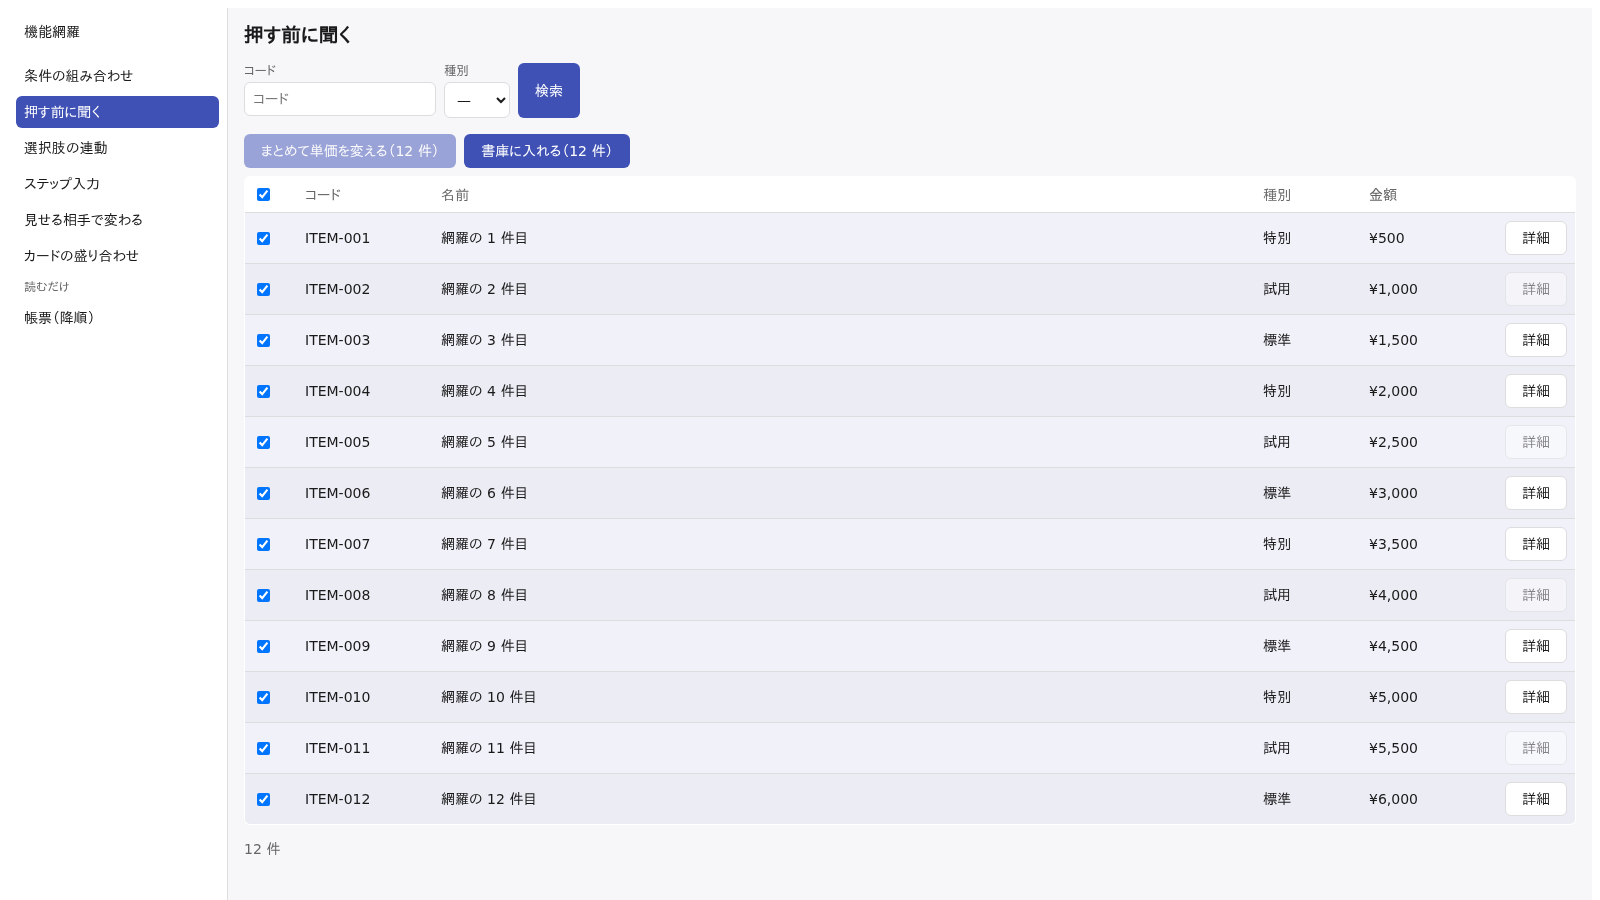
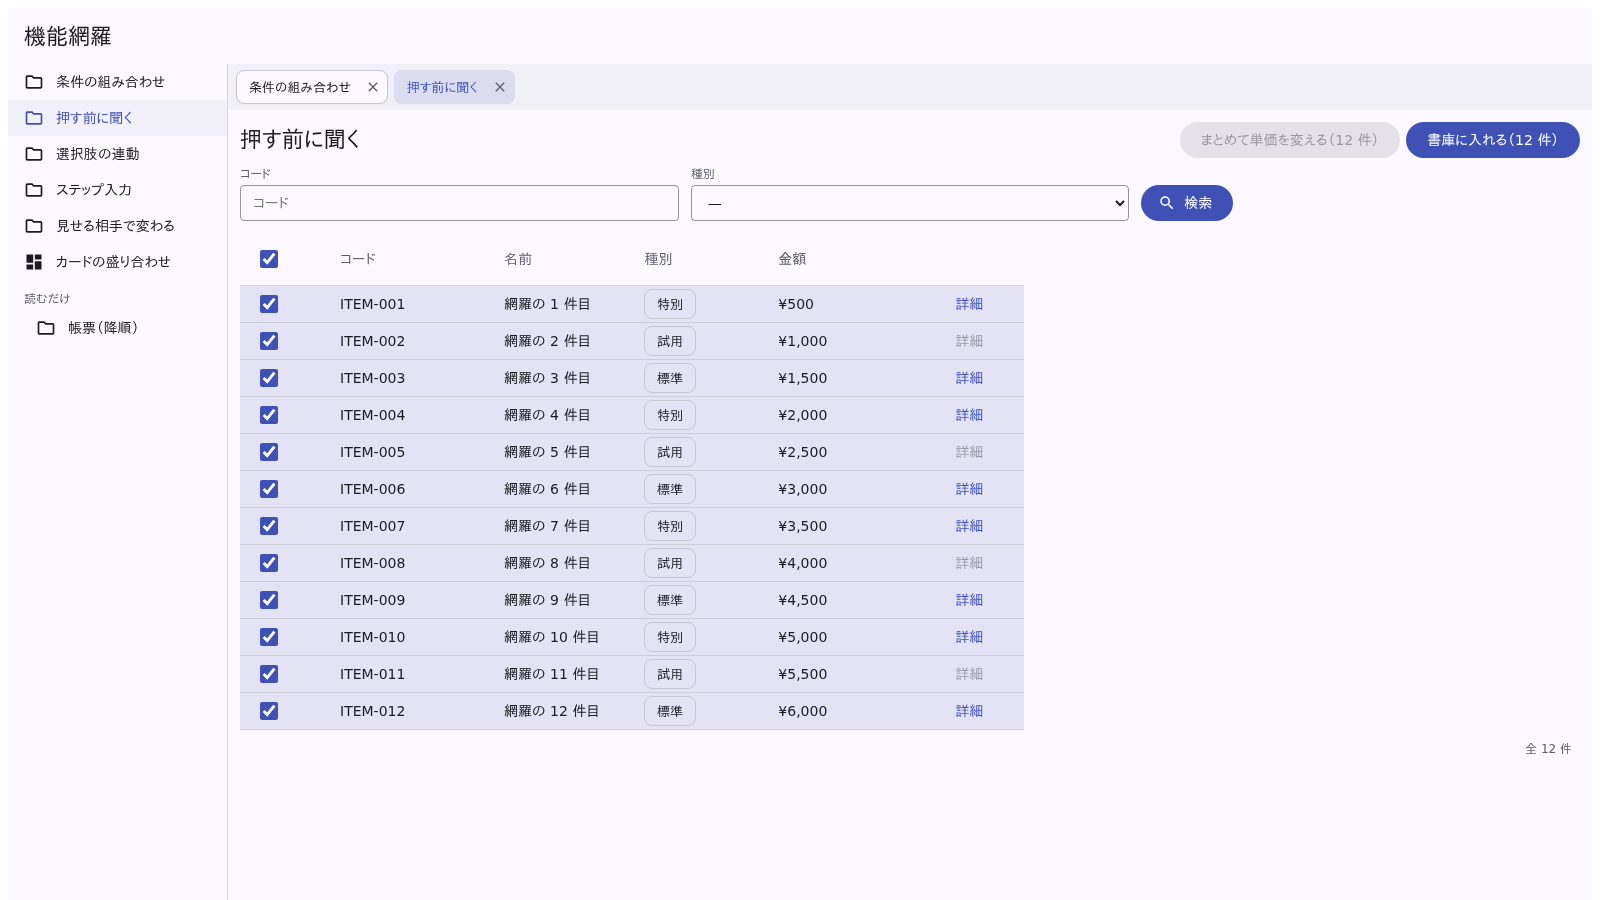
機能網羅を 0.9.20 に上げる（ブラウザ版の見た目が Flutter 版にそろった）

diff --git a/apps/kitchen-sink-prj/docs/4-テスト/出力-画面テスト結果-React.md b/apps/kitchen-sink-prj/docs/4-テスト/出力-画面テスト結果-React.md
@@ -13,7 +13,7 @@
 > **スクショは証拠であって、判定ではありません。** 値の合否は `hatake run`、
 > サーバの合否は API テストが持っています。
 
-- 実行日時: 2026-09-29T07:18:24.980Z
+- 実行日時: 2026-09-30T00:30:22.912Z
 - 対象: `http://web-react:80`
 - 画面の大きさ: 1600 x 900
 - 前提: `docker compose up` で初期データの状態
@@ -49,7 +49,7 @@
 
 - **役割**: tester
 - **確かめたいこと**: `actions:` が3スコープとも描かれているか（0.9.19 で入った所）
-- **目で見て確かめること**: 一括が2つ出ていて、**1行も選んでいないので押せない**。行の「詳細」は試用の行だけ灰色。左端に選ぶ列が在る
+- **目で見て確かめること**: 題の右に一括が2つ出ていて、**1行も選んでいないので押せない**（札に「（行を選んでください）」）。行の「詳細」は試用の行だけ灰色。左端に選ぶ列が在る。種別は札で出る
 
 ![R-02](画面-R/R-02-押す前に聞く.png)
 
@@ -113,7 +113,7 @@
 
 - **役割**: admin
 - **確かめたいこと**: 列・ボタン・項目の roles
-- **目で見て確かめること**: 「原価」の列が出ている。「CSV 出力」が出ている
+- **目で見て確かめること**: 「原価」の列が出ている。「CSV 出力」が出ている。行の「編集」「削除」は絵のボタン（`rowActions` に書いたから出ている）
 
 ![R-10](画面-R/R-10-見せる相手で変わる-admin.png)
 
@@ -129,6 +129,6 @@
 
 - **役割**: admin
 - **確かめたいこと**: dashboard のカード3種と span、カードごとの roles・固定条件
-- **目で見て確かめること**: 件数・原価の合計・G1 だけ・平均原価の4枚と、図と表。admin なので「平均原価」が出ている
+- **目で見て確かめること**: 1段目に件数・原価の合計・G1 だけ・平均原価の4枚（`layout.columns: 4`）、2段目に棒グラフと表（`span: 2`）。金額は ¥ 付き。admin なので「平均原価」が出ている
 
 ![R-12](画面-R/R-12-カードの盛り合わせ.png)

diff --git a/apps/kitchen-sink-prj/docs/4-テスト/出力-画面テスト結果-Vue.md b/apps/kitchen-sink-prj/docs/4-テスト/出力-画面テスト結果-Vue.md
@@ -13,7 +13,7 @@
 > **スクショは証拠であって、判定ではありません。** 値の合否は `hatake run`、
 > サーバの合否は API テストが持っています。
 
-- 実行日時: 2026-09-29T07:17:28.324Z
+- 実行日時: 2026-09-30T00:29:26.204Z
 - 対象: `http://web-vue:80`
 - 画面の大きさ: 1600 x 900
 - 前提: `docker compose up` で初期データの状態
@@ -49,7 +49,7 @@
 
 - **役割**: tester
 - **確かめたいこと**: `actions:` が3スコープとも描かれているか（0.9.19 で入った所）
-- **目で見て確かめること**: 一括が2つ出ていて、**1行も選んでいないので押せない**。行の「詳細」は試用の行だけ灰色。左端に選ぶ列が在る
+- **目で見て確かめること**: 題の右に一括が2つ出ていて、**1行も選んでいないので押せない**（札に「（行を選んでください）」）。行の「詳細」は試用の行だけ灰色。左端に選ぶ列が在る。種別は札で出る
 
 ![V-02](画面-V/V-02-押す前に聞く.png)
 
@@ -113,7 +113,7 @@
 
 - **役割**: admin
 - **確かめたいこと**: 列・ボタン・項目の roles
-- **目で見て確かめること**: 「原価」の列が出ている。「CSV 出力」が出ている
+- **目で見て確かめること**: 「原価」の列が出ている。「CSV 出力」が出ている。行の「編集」「削除」は絵のボタン（`rowActions` に書いたから出ている）
 
 ![V-10](画面-V/V-10-見せる相手で変わる-admin.png)
 
@@ -129,6 +129,6 @@
 
 - **役割**: admin
 - **確かめたいこと**: dashboard のカード3種と span、カードごとの roles・固定条件
-- **目で見て確かめること**: 件数・原価の合計・G1 だけ・平均原価の4枚と、図と表。admin なので「平均原価」が出ている
+- **目で見て確かめること**: 1段目に件数・原価の合計・G1 だけ・平均原価の4枚（`layout.columns: 4`）、2段目に棒グラフと表（`span: 2`）。金額は ¥ 付き。admin なので「平均原価」が出ている
 
 ![V-12](画面-V/V-12-カードの盛り合わせ.png)

diff --git a/apps/kitchen-sink-prj/docs/4-テスト/出力-Renderer比較.md b/apps/kitchen-sink-prj/docs/4-テスト/出力-Renderer比較.md
@@ -8,7 +8,7 @@
 > 「違う」になるし、中身が違っても見た目が似ていれば気づけない）。この3つは
 > **契約**なので、揃っていなければ載せ替えた案件が黙って壊れます。
 
-- 実行日時: 2026-09-29T07:19:15.967Z
+- 実行日時: 2026-09-30T00:31:14.068Z
 - Vue: `http://web-vue:80`
 - React: `http://web-react:80`
 
@@ -16,15 +16,15 @@
 
 | 画面（役割） | 印 | クラス名 | 字数 | 突き合わせ |
 |---|---|---|---|---|
-| combo_form（tester） | 20 | 19 | 58 | 揃っている |
-| press_list（tester） | 53 | 24 | 436 | 揃っている |
-| linked_master（tester） | 62 | 23 | 418 | 揃っている |
-| steps_wizard（tester） | 20 | 23 | 69 | 揃っている |
-| role_crud（admin） | 42 | 24 | 206 | 揃っている |
-| role_crud（tester） | 39 | 23 | 172 | 揃っている |
-| card_board（admin） | 27 | 25 | 633 | 揃っている |
-| fold_detail（tester） | 25 | 20 | 131 | 揃っている |
-| sorted_report（admin） | 24 | 24 | 492 | 揃っている |
-| sorted_report（tester） | 21 | 23 | 482 | 揃っている |
+| combo_form（tester） | 23 | 31 | 85 | 揃っている |
+| press_list（tester） | 56 | 36 | 467 | 揃っている |
+| linked_master（tester） | 64 | 33 | 350 | 揃っている |
+| steps_wizard（tester） | 23 | 34 | 84 | 揃っている |
+| role_crud（admin） | 44 | 34 | 172 | 揃っている |
+| role_crud（tester） | 41 | 33 | 138 | 揃っている |
+| card_board（admin） | 31 | 38 | 238 | 揃っている |
+| fold_detail（tester） | 28 | 32 | 148 | 揃っている |
+| sorted_report（admin） | 27 | 35 | 490 | 揃っている |
+| sorted_report（tester） | 24 | 34 | 480 | 揃っている |
 
 **どの画面も、印もクラス名も字も一致しました。**

diff --git a/apps/kitchen-sink-prj/docs/4-テスト/出力-画面テスト結果.md b/apps/kitchen-sink-prj/docs/4-テスト/出力-画面テスト結果.md
@@ -8,7 +8,7 @@
 > サーバの合否は API テスト（`出力-APIテスト結果.md`）が持っていて、ここは
 > **目で確かめて判子を押すための記録**です。
 
-- 実行日時: 2026-09-29T07:16:31.692Z
+- 実行日時: 2026-09-30T00:28:29.661Z
 - 対象: `http://web:80`
 - 画面の大きさ: 1400 x 900
 - 前提: `docker compose up` で初期データの状態
